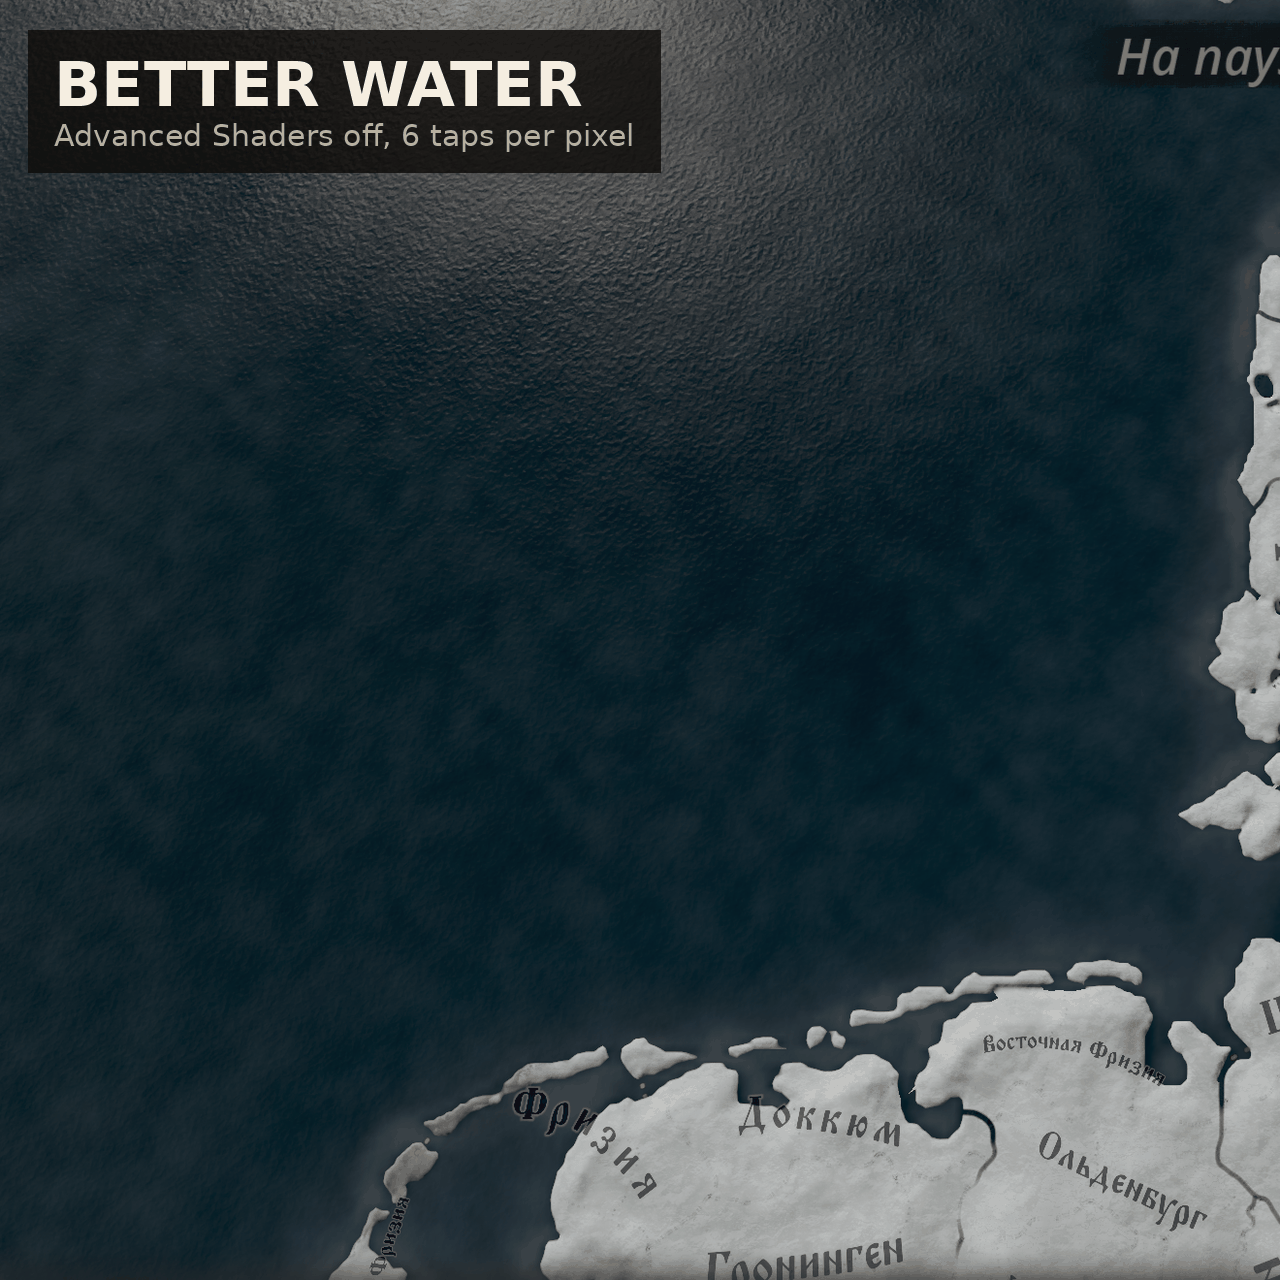
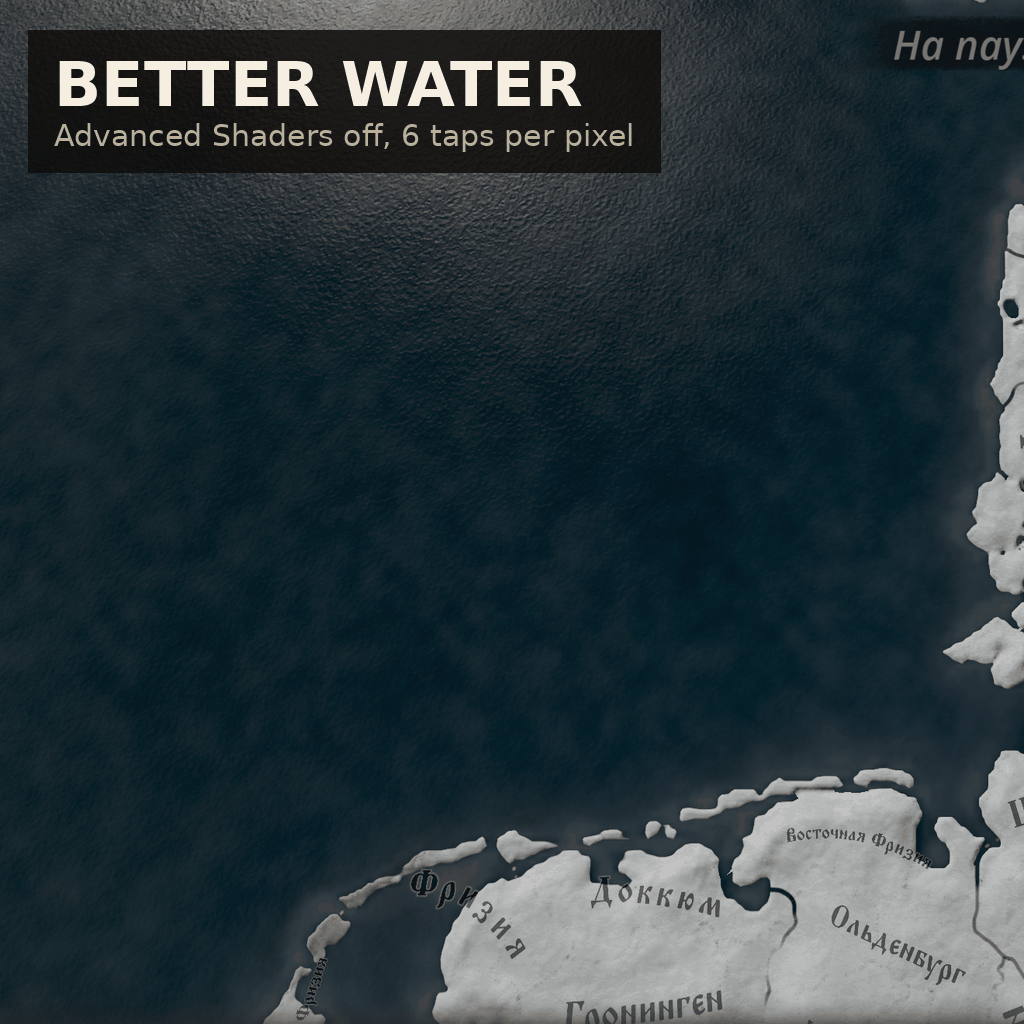
Preview under 1 MB; compile_check tests the MainCode blocks

Changed region(s): [[0.0, 0.0, 0.6562, 0.1875]]

diff --git a/tools/compile_check.py b/tools/compile_check.py
@@ -12,8 +12,7 @@ catch a wrong texture register or an engine-side include problem; those need a g
 start (see tools/check_log.sh).
 
 usage: compile_check.py --dxc <dxc dir> [--cache <ps_5_0 dir>] [--game <game root>] [-k]
-SHARP_BASE=<older Sharp Terrain pdxterrain.shader> picks the cache entry compiled from that
-version as the base for the low spec terrain target (git show HEAD~1:gfx/FX/pdxterrain.shader > /tmp/x).
+
 """
 import argparse, os, re, shutil, subprocess, sys, tempfile
 
@@ -42,16 +41,16 @@ FILES = {
     'jomini/jomini_colormap.fxh': 'BilinearColorSampleAtOffset',
     'bordercolor.fxh': 'GetBorderColorAndBlendGameLerp',
 }
-# (shader file, effect, low spec?, base) base: 'vanilla' or path of an older mod file
+# (shader file, effect, low spec?, base) base: 'vanilla' or path of an older mod file.
+# MAIN_MAP: effects the mod rewires to a new MainCode - the vanilla main block found in
+# the cache entry is replaced by the mod's block of the mapped name.
 TARGETS = [
     ('pdxterrain.shader', 'PdxTerrain', False, 'vanilla'),
-    ('pdxterrain.shader', 'PdxTerrainLowSpec', True, os.environ.get('SHARP_BASE', HOME + '/Projects/ck3-lowspec-terrain-fix/gfx/FX/pdxterrain.shader')),
+    ('pdxterrain.shader', 'PdxTerrainLowSpec', True, 'vanilla'),
     ('tree.shader', 'tree', False, 'vanilla'),
     ('tree.shader', 'tree_lod', False, 'vanilla'),
     ('tree.shader', 'tree', True, 'vanilla'),
     ('pdxwater.shader', 'water', False, 'vanilla'),
-    ('pdxwater.shader', 'waterLowSpec', True, 'vanilla'),
-    ('pdxwater.shader', 'lake', True, 'vanilla'),
     ('pdxmesh.shader', 'standard_atlas', False, 'vanilla'),
     ('pdxmesh.shader', 'standard_usercolor', False, 'vanilla'),
     ('pdxmesh.shader', 'standard_winter', False, 'vanilla'),
@@ -61,11 +60,11 @@ TARGETS = [
     ('river_surface.shader', 'river_surface', False, 'vanilla'),
     ('mapname.shader', 'mapname', False, 'vanilla'),
 ]
+MAIN_MAP = {('pdxterrain.shader', 'PdxTerrainLowSpec'): {'PixelShaderLowSpec': 'PixelShaderLowSpecSharp'}}
+
 VARIANTS = [
     ('default', []),
     ('snow_material', ['-DTERRAINOPT_SNOW_MATERIAL']),
-] if os.path.exists(os.path.join(MOD, 'gfx/FX/sharp_terrain_options.fxh')) else [
-    ('default', []),
 ] if not os.path.exists(os.path.join(MOD, 'gfx/FX/fastadv.fxh')) else [
     ('default', []),
     ('disable_all', ['-DADVOPT_DISABLE_ALL']),
@@ -83,7 +82,7 @@ MOD_MARKERS = ('ADVOPT_', 'TREEOPT_', 'TERRAINOPT_', 'CalcPrimaryProvinceOverlay
 def read(p):
     return open(p, 'rb').read().decode('utf-8', 'replace')
 
-def find_entry(cache, shader, effect, lowspec, want_marker):
+def find_entry(cache, shader, effect, lowspec, want_marker, want_block=None):
     for name in sorted(os.listdir(cache)):
         if not name.endswith('.scache'):
             continue
@@ -100,8 +99,15 @@ def find_entry(cache, shader, effect, lowspec, want_marker):
             continue
         if want_marker and want_marker not in text:
             continue
+        if want_block and not contains_lines(text, want_block):
+            continue
         return p
     return None
+
+def contains_lines(text, block):
+    nl = [l.strip() for l in text.split('\n')]
+    pat = [l.strip() for l in block][:40]
+    return any(nl[k:k+len(pat)] == pat for k in range(len(nl) - len(pat) + 1))
 
 def switch_block():
     out = ''
@@ -142,12 +148,23 @@ def code_blocks(text):
         blocks[key] = body
     return blocks
 
-def apply_blocks(target, vanilla_path, mod_path):
+def apply_blocks(target, vanilla_path, mod_path, main_map=None):
     """Replace every vanilla Code block found in the expanded file with the mod's
-    block of the same key. Returns a list of notes."""
+    block of the same key (or of the mapped main name). Returns a list of notes."""
     lines = open(target, 'rb').read().decode('utf-8', 'replace').split('\n')
-    norm = lambda l: l.strip()
+    import re as _re
+    sig = _re.compile(r'^\w[\w<>, ]* main\s*\(')
+    def norm(l):
+        l = l.strip()
+        # the engine replaces the PDX_MAIN line of a MainCode block with the real
+        # entry point signature; treat both spellings as the same line
+        if l.startswith('PDX_MAIN') or sig.match(l):
+            return 'PDX_MAIN'
+        return l
     van = code_blocks(read(vanilla_path)); mod = code_blocks(read(mod_path))
+    for old_main, new_main in (main_map or {}).items():
+        if ('main', new_main) in mod:
+            mod[('main', old_main)] = mod[('main', new_main)]
     notes = []
     for key, vb in van.items():
         if key not in mod:
@@ -160,7 +177,11 @@ def apply_blocks(target, vanilla_path, mod_path):
         if not hits:
             continue  # this block is not part of the expanded entry (other MainCode)
         k = hits[0]
-        lines[k:k+len(pat)] = mod[key]
+        signature = [l for l in lines[k:k+len(pat)] if norm(l) == 'PDX_MAIN']
+        new_block = list(mod[key])
+        if signature:
+            new_block = [signature[0] if norm(l) == 'PDX_MAIN' else l for l in new_block]
+        lines[k:k+len(pat)] = new_block
     open(target, 'wb').write('\n'.join(lines).encode('utf-8'))
     return notes
 
@@ -179,7 +200,14 @@ def main():
         if not os.path.exists(os.path.join(MOD, 'gfx/FX', shader)):
             continue
         marker = None if base == 'vanilla' else 'TERRAINOPT_SKIP_HIDDEN_TERRAIN'
-        entry = find_entry(a.cache, shader, effect, lowspec, marker)
+        # a non-vanilla base must match the entry it is applied to: require the base
+        # file's main block for this effect to be present in the expanded text
+        want_block = None
+        if base != 'vanilla':
+            bb = code_blocks(read(base))
+            mains = [v for k, v in bb.items() if k[0] == 'main' and 'LowSpecSharp' in k[1]]
+            want_block = mains[0] if mains else None
+        entry = find_entry(a.cache, shader, effect, lowspec, marker, want_block)
         tag = f'{effect}{"[lowspec]" if lowspec else ""}'
         if not entry:
             print(f'{tag:34} no cache entry, skipped')
@@ -205,7 +233,7 @@ def main():
             else:
                 van = os.path.join(a.game, 'game/gfx/FX', f)
             modf = os.path.join(MOD, 'gfx/FX', f)
-            for msg in apply_blocks(dst, van, modf):
+            for msg in apply_blocks(dst, van, modf, MAIN_MAP.get((shader, effect)) if f == shader else None):
                 rejected.append(f'{f}: {msg}')
         src = read(dst)
         open(dst, 'w').write(switch_block() + '\n' + src)

diff --git a/steam-workshop/make_thumbnail.py b/steam-workshop/make_thumbnail.py
@@ -4,7 +4,7 @@ generator (two halves, two badges)."""
 from PIL import Image, ImageDraw, ImageFont
 SRC = "/home/nikita/Pictures/Screenshots/Screenshot_20260913_010758.png"
 OUT = "/home/nikita/Projects/ck3-lowspec-water/thumbnail.png"
-S = 1280
+S = 1024
 im = Image.open(SRC).convert("RGB").crop((1300, 120, 2620, 1440)).resize((S, S), Image.LANCZOS)
 d = ImageDraw.Draw(im, "RGBA")
 big = ImageFont.truetype("/usr/share/fonts/truetype/dejavu/DejaVuSans-Bold.ttf", 62)
